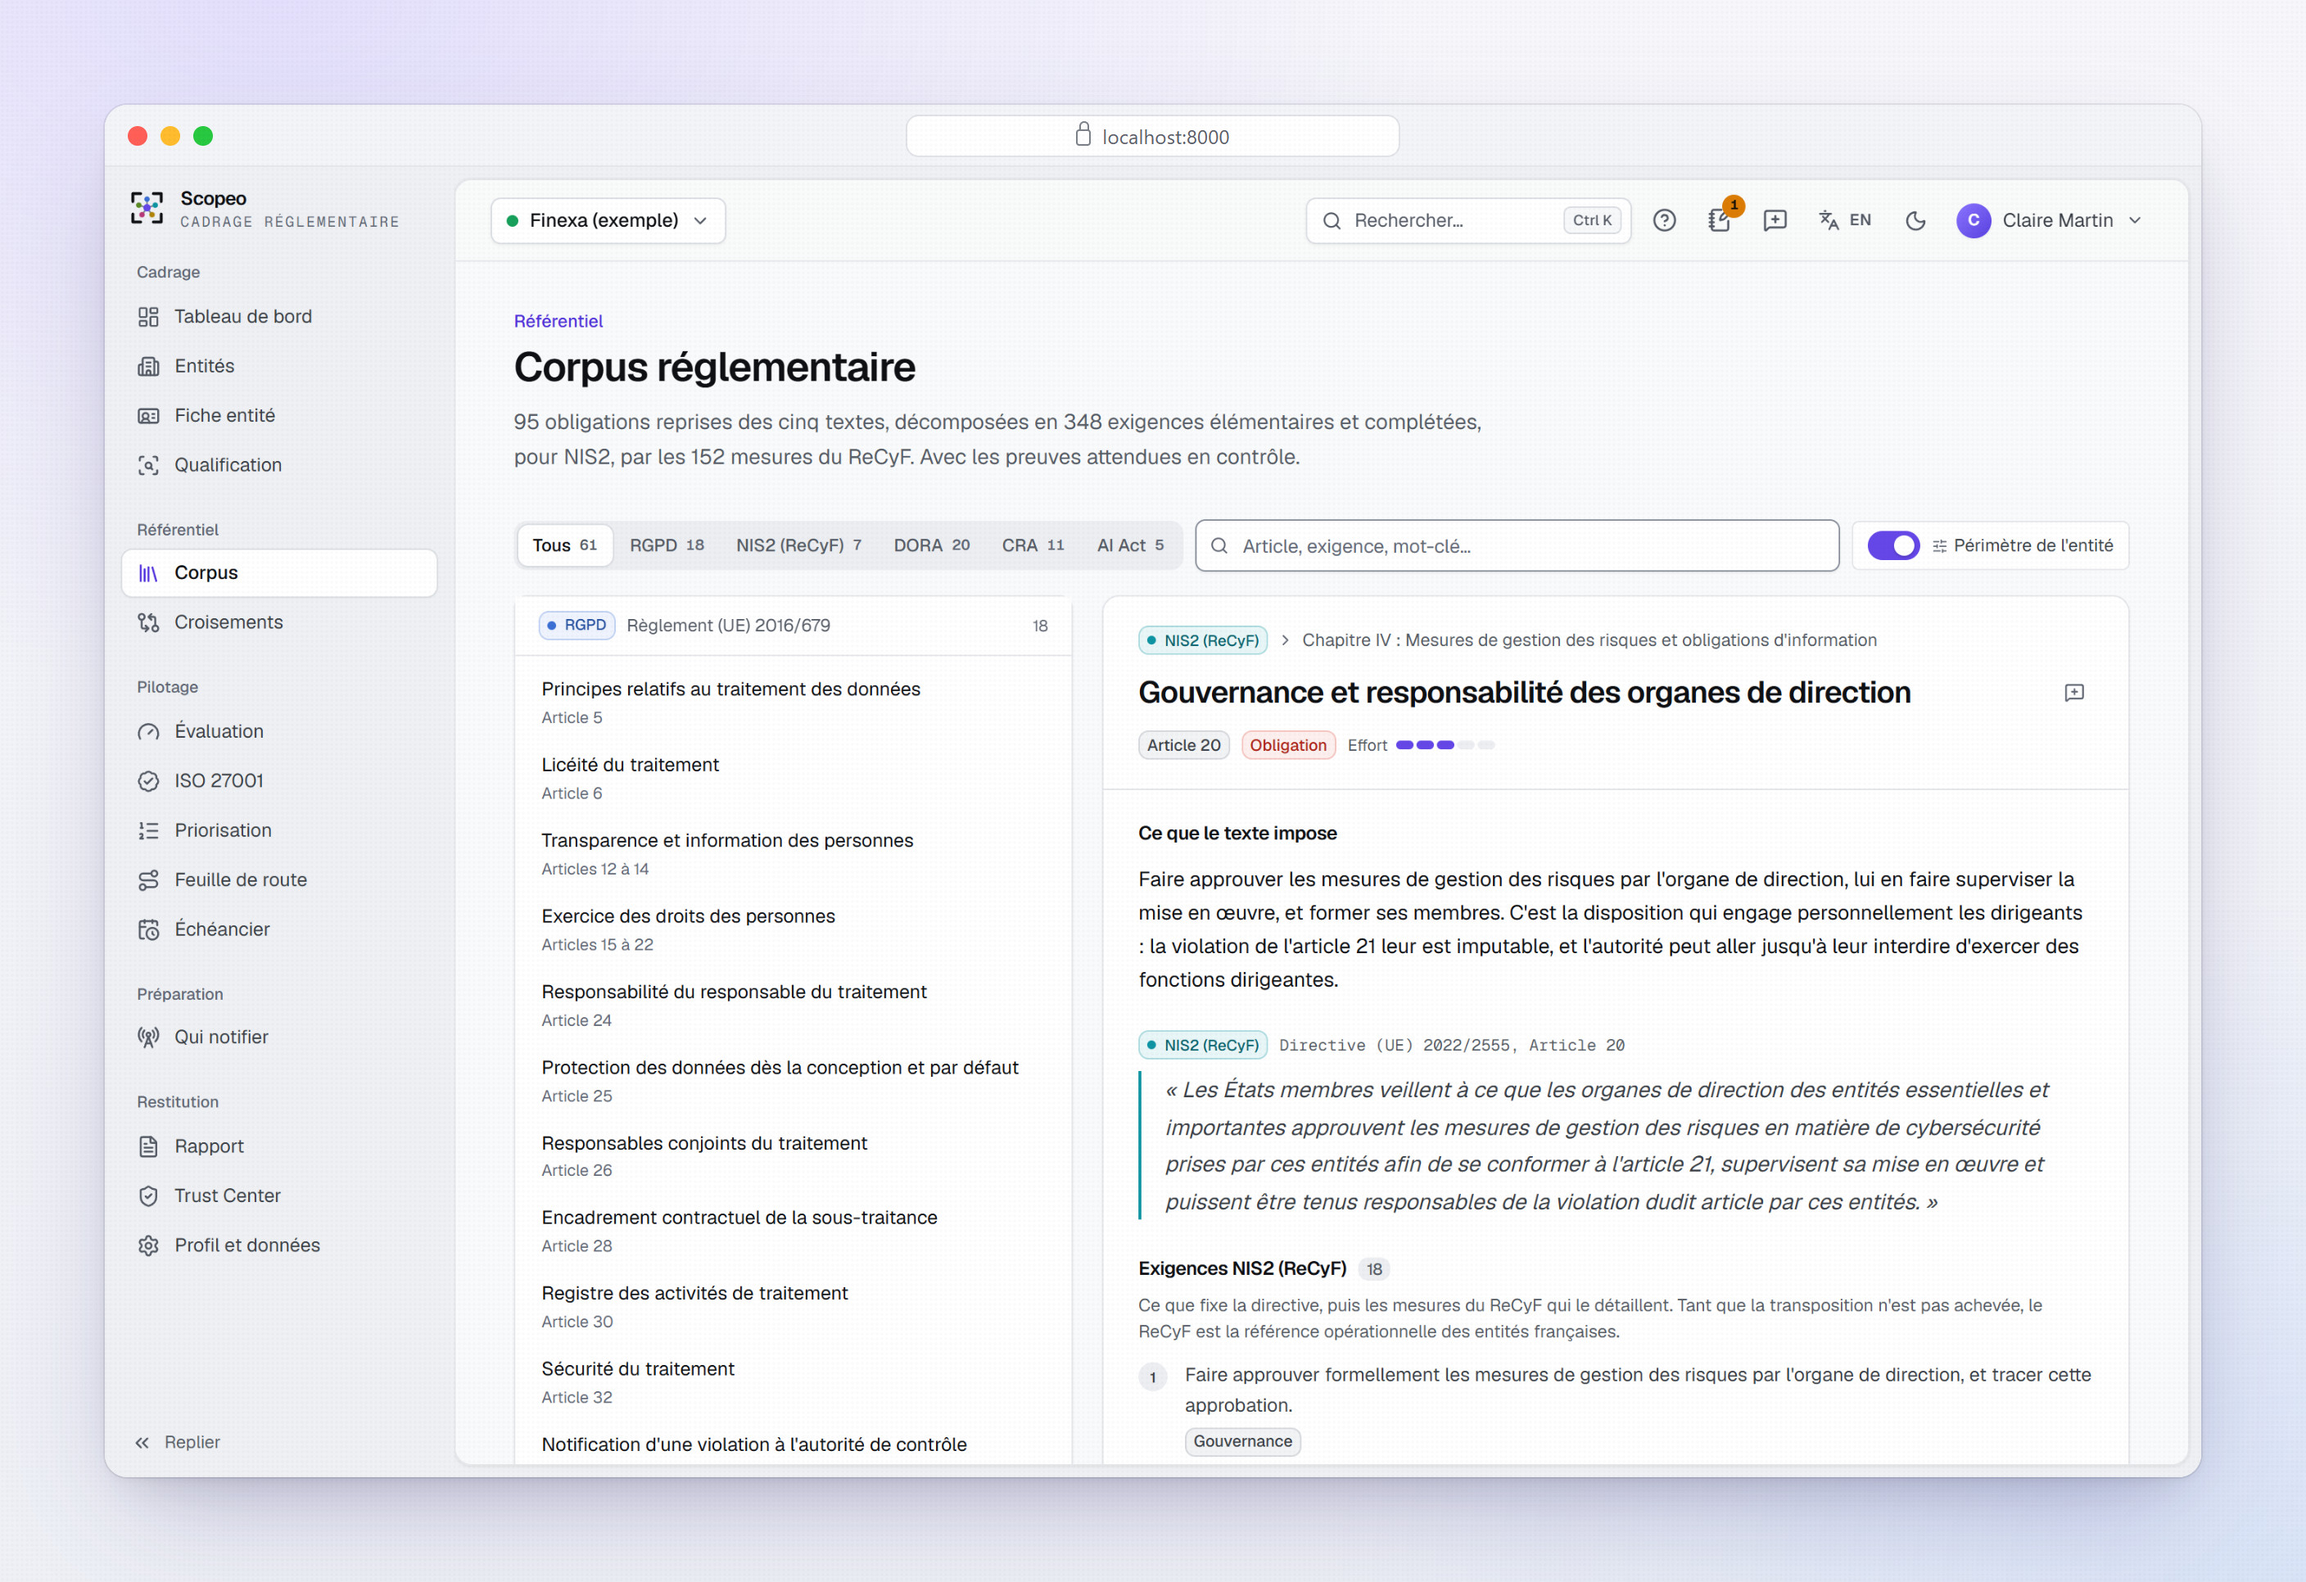
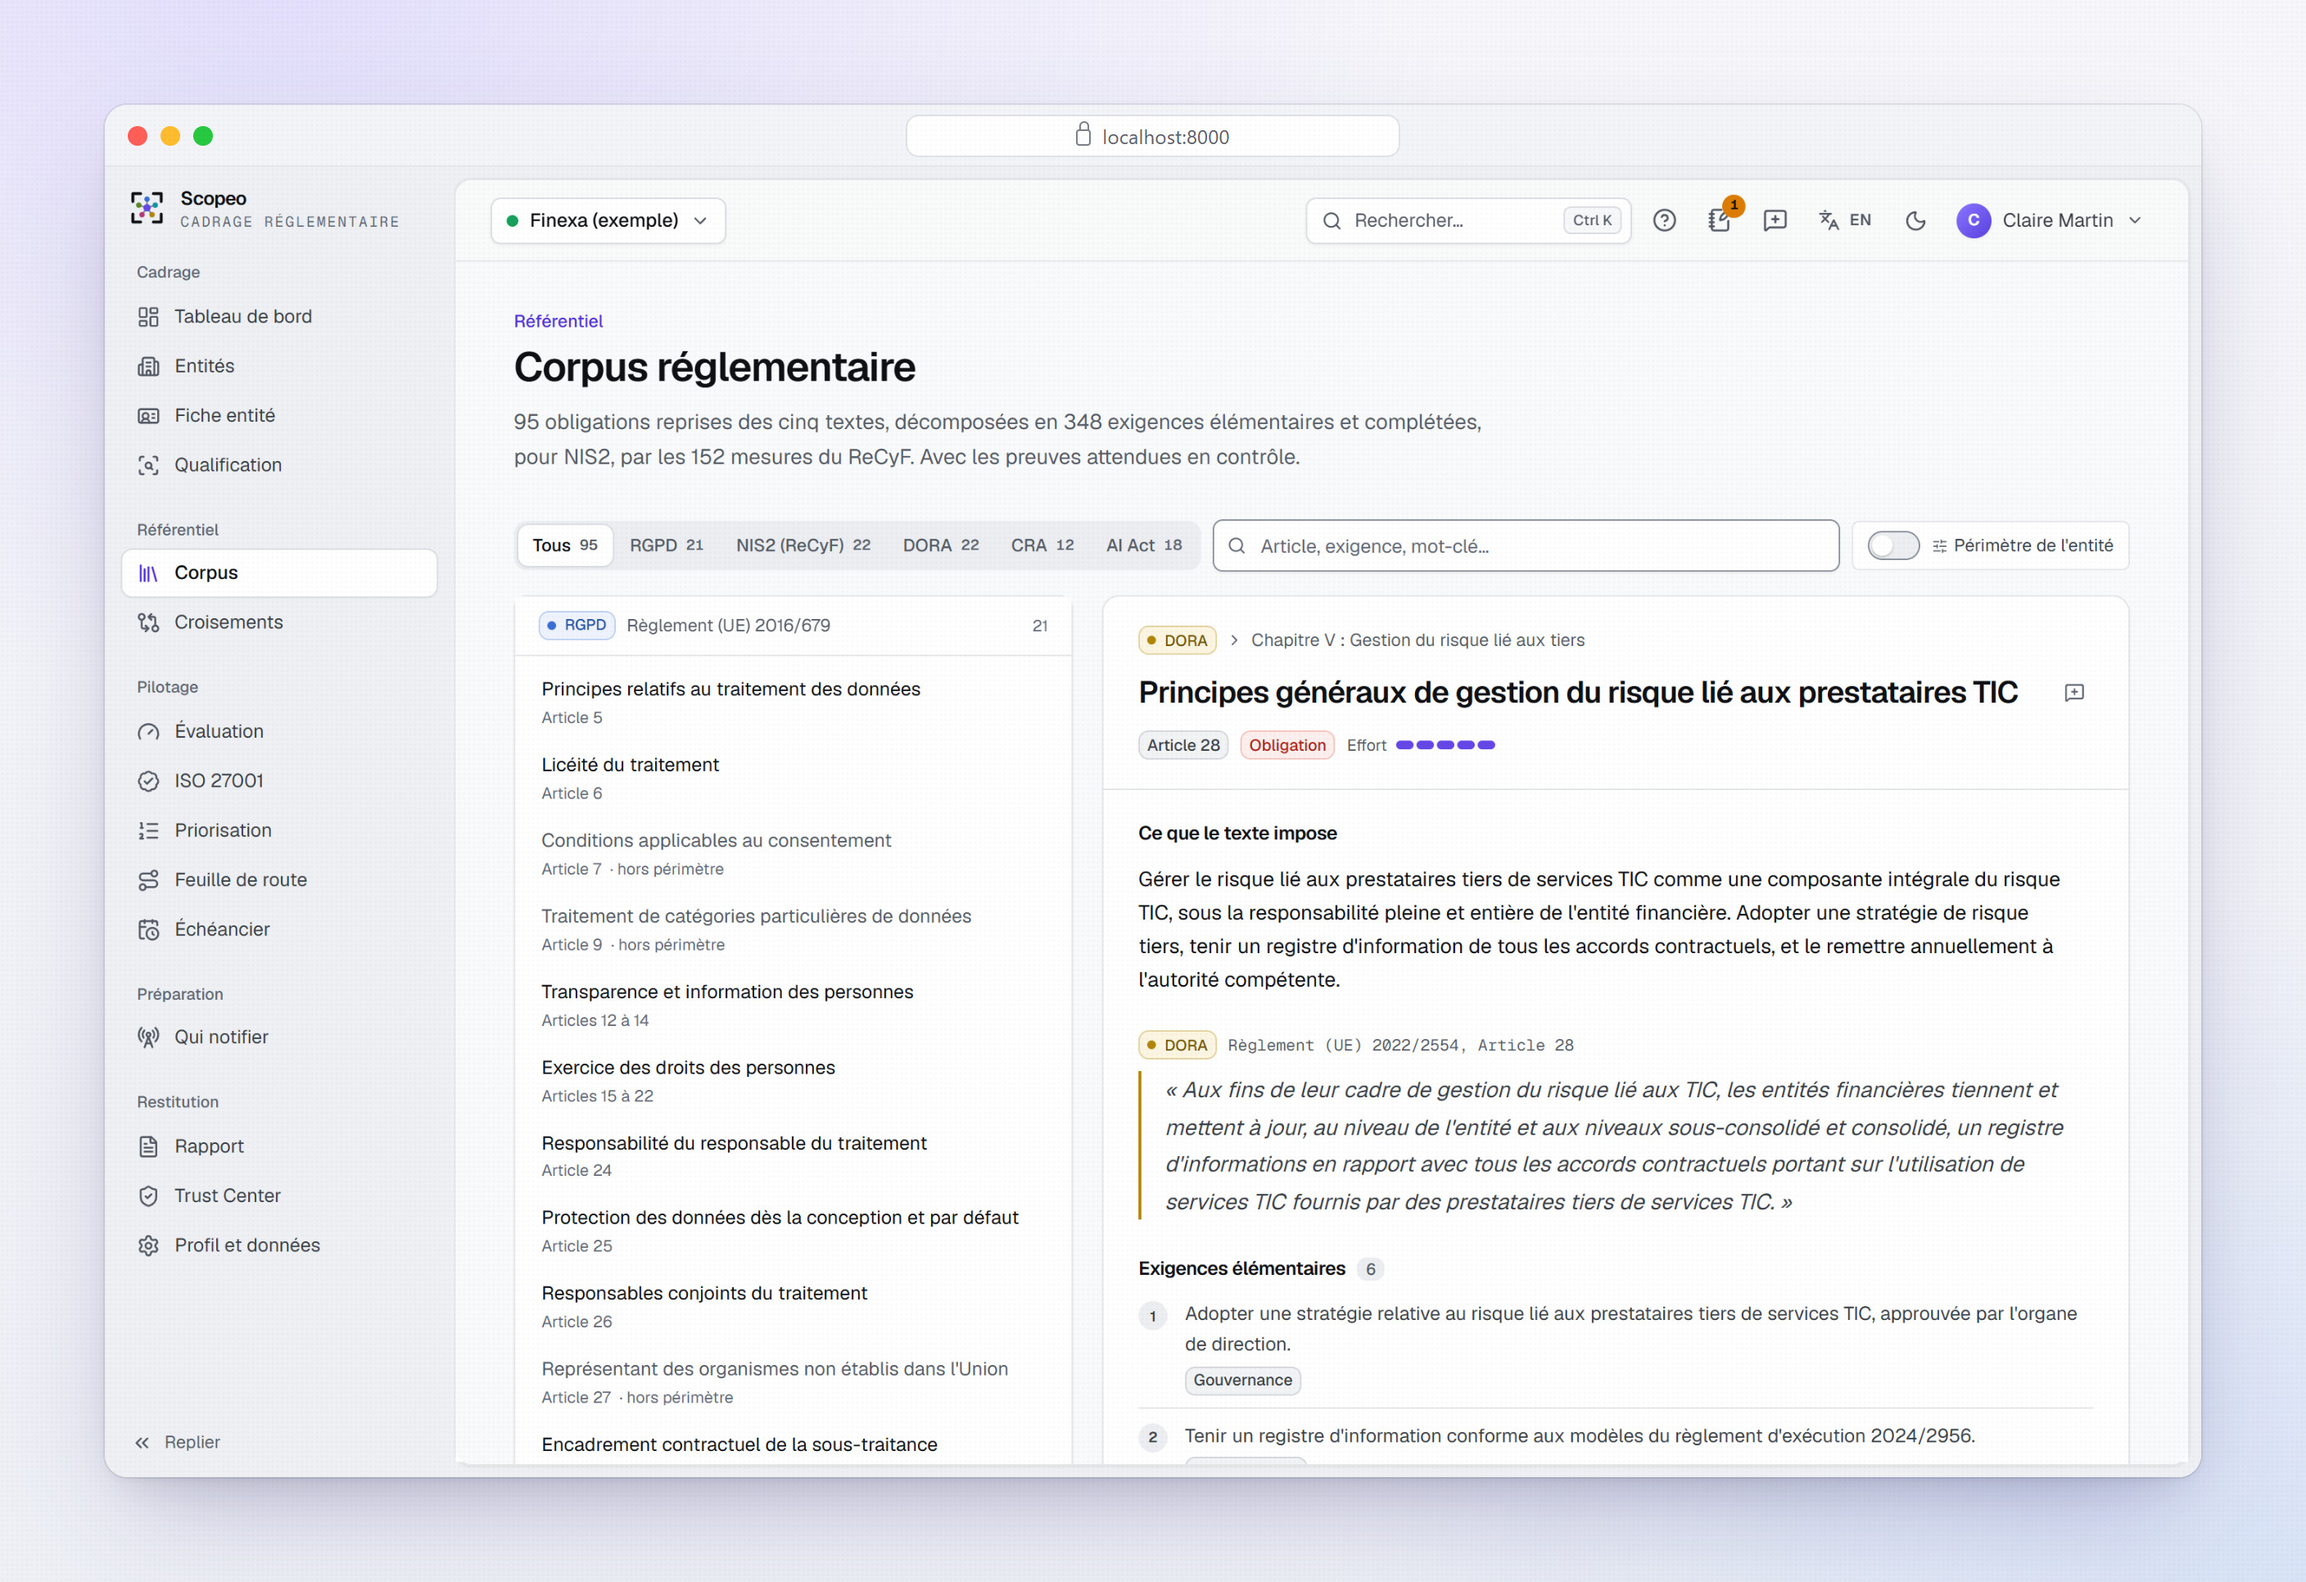
docs: corpus complet dans la visite, rôles GRC

diff --git a/src/features/admin/UsersPage.tsx b/src/features/admin/UsersPage.tsx
@@ -25,17 +25,8 @@ import { useCurrentUser } from '@/lib/queries'
 import { cn, formatDateShort } from '@/lib/utils'
 import type { AdminUser, UserRole } from '@/types/domain'
 import { tr } from '@/i18n'
+import { ROLE_SHORT, USER_ROLES as ROLES } from '@/components/auth/roles'
 
-const ROLES: { value: UserRole; label: string }[] = [
-  { value: 'consultant', label: tr('Consultant', 'Consultant') },
-  { value: 'dpo', label: tr('Délégué à la protection des données', 'Data protection officer') },
-  { value: 'rssi', label: tr('RSSI', 'CISO') },
-  { value: 'juriste', label: tr('Juriste, conformité', 'Legal, compliance') },
-  { value: 'dirigeant', label: tr('Direction', 'Executive') },
-  { value: 'auditeur', label: tr('Auditeur', 'Auditor') },
-  { value: 'autre', label: tr('Autre', 'Other') },
-]
-const ROLE_LABEL = Object.fromEntries(ROLES.map((r) => [r.value, r.label])) as Record<string, string>
 
 /** Mot de passe provisoire lisible, sans caractères ambigus. */
 function temporaryPassword(): string {
@@ -154,7 +145,7 @@ export default function UsersPage() {
                           {u.id === me?.id ? <span className="text-2xs text-ink-4">{tr('(vous)', '(you)')}</span> : null}
                         </span>
                         <span className="block truncate text-2xs text-ink-3">
-                          {[ROLE_LABEL[u.role] ?? u.role, u.organisation, u.email].filter(Boolean).join(' · ')}
+                          {[ROLE_SHORT[u.role] ?? u.role, u.organisation, u.email].filter(Boolean).join(' · ')}
                         </span>
                       </span>
                     </div>

diff --git a/src/components/layout/AppShell.tsx b/src/components/layout/AppShell.tsx
@@ -30,18 +30,10 @@ import { useSession } from '@/lib/store'
 import { useCurrentEntity, useCurrentUser, useEntities, useLogout, useSaveStatus, flushAll } from '@/lib/queries'
 import { useScoping } from '@/lib/hooks'
 import { tr } from '@/i18n'
+import { ROLE_SHORT } from '@/components/auth/roles'
 import { Tour } from '@/components/tour/Tour'
 import { FeedbackButton } from '@/components/feedback/FeedbackDialog'
 
-const ROLE_LABEL: Record<string, string> = {
-  consultant: tr('Consultant', 'Consultant'),
-  dpo: tr('DPO', 'DPO'),
-  rssi: tr('RSSI', 'CISO'),
-  juriste: tr('Juriste', 'Legal counsel'),
-  dirigeant: tr('Direction', 'Executive'),
-  auditeur: tr('Auditeur', 'Auditor'),
-  autre: tr('Utilisateur', 'User'),
-}
 
 /* ========================================================================== */
 
@@ -264,7 +256,7 @@ function UserMenu() {
           <div className="px-2 py-2">
             <div className="truncate text-sm font-medium text-ink">{displayName}</div>
             <div className="text-2xs text-ink-3">
-              {user?.is_guest ? tr('Mode invité', 'Guest mode') : ROLE_LABEL[user?.role ?? 'autre']}
+              {user?.is_guest ? tr('Mode invité', 'Guest mode') : ROLE_SHORT[user?.role ?? 'autre']}
               {user?.is_admin ? ` · ${tr('administrateur', 'administrator')}` : ''}
               {user?.organisation ? ` · ${user.organisation}` : ''}
             </div>

diff --git a/src/components/auth/roles.ts b/src/components/auth/roles.ts
@@ -1,0 +1,28 @@
+import type { UserRole } from '@/types/domain'
+import { tr } from '@/i18n'
+
+/** Fonctions proposées pour un profil : celles des personnes qui mènent ou éclairent un cadrage. */
+export const USER_ROLES: { value: UserRole; label: string }[] = [
+  { value: 'consultant', label: tr('Consultant', 'Consultant') },
+  { value: 'rssi', label: tr('RSSI', 'CISO') },
+  { value: 'conformite', label: tr('Responsable GRC, conformité', 'GRC, compliance manager') },
+  { value: 'risques', label: tr('Gestionnaire des risques', 'Risk manager') },
+  { value: 'dpo', label: tr('Délégué à la protection des données', 'Data protection officer') },
+  { value: 'juriste', label: tr('Juriste', 'Legal counsel') },
+  { value: 'dirigeant', label: tr('Direction', 'Executive') },
+  { value: 'auditeur', label: tr('Auditeur', 'Auditor') },
+  { value: 'autre', label: tr('Autre', 'Other') },
+]
+
+/** Libellé court, pour le menu du profil et la liste des comptes. */
+export const ROLE_SHORT: Record<UserRole, string> = {
+  consultant: tr('Consultant', 'Consultant'),
+  rssi: tr('RSSI', 'CISO'),
+  conformite: tr('GRC, conformité', 'GRC, compliance'),
+  risques: tr('Risques', 'Risk'),
+  dpo: 'DPO',
+  juriste: tr('Juriste', 'Legal counsel'),
+  dirigeant: tr('Direction', 'Executive'),
+  auditeur: tr('Auditeur', 'Auditor'),
+  autre: tr('Utilisateur', 'User'),
+}

diff --git a/src/features/settings/SettingsPage.tsx b/src/features/settings/SettingsPage.tsx
@@ -12,16 +12,8 @@ import { MfaCard } from './MfaCard'
 import { ApiTokensCard } from './ApiTokensCard'
 import { LANG, setLang, tr, type Lang } from '@/i18n'
 import type { EntityRecord, UserRole } from '@/types/domain'
+import { USER_ROLES as ROLES } from '@/components/auth/roles'
 
-const ROLES: { value: UserRole; label: string }[] = [
-  { value: 'consultant', label: tr('Consultant, plusieurs clients', 'Consultant, several clients') },
-  { value: 'dpo', label: tr('Délégué à la protection des données', 'Data protection officer') },
-  { value: 'rssi', label: tr('RSSI', 'CISO') },
-  { value: 'juriste', label: tr('Juriste, conformité', 'Legal, compliance') },
-  { value: 'dirigeant', label: tr('Direction', 'Executive') },
-  { value: 'auditeur', label: tr('Auditeur', 'Auditor') },
-  { value: 'autre', label: tr('Autre', 'Other') },
-]
 
 /** Format d'échange d'une entité : ce qu'il faut pour la recréer ailleurs, rien de plus. */
 interface EntityExport {

diff --git a/src/features/landing/LandingPage.tsx b/src/features/landing/LandingPage.tsx
@@ -15,16 +15,8 @@ import { REGULATION_ORDER } from '@/data/regulations'
 import { TIMELINE } from '@/data/timeline'
 import { LanguageToggle, ThemeToggle } from '@/components/layout/ThemeToggle'
 import { tr } from '@/i18n'
+import { USER_ROLES as ROLES } from '@/components/auth/roles'
 
-const ROLES: { value: UserRole; label: string }[] = [
-  { value: 'consultant', label: tr('Consultant, plusieurs clients', 'Consultant, several clients') },
-  { value: 'dpo', label: tr('Délégué à la protection des données', 'Data protection officer') },
-  { value: 'rssi', label: tr('RSSI', 'CISO') },
-  { value: 'juriste', label: tr('Juriste, conformité', 'Legal, compliance') },
-  { value: 'dirigeant', label: tr('Direction', 'Executive') },
-  { value: 'auditeur', label: tr('Auditeur', 'Auditor') },
-  { value: 'autre', label: tr('Autre', 'Other') },
-]
 
 
 /** Veille : ce qui vient d'entrer en vigueur et ce qui arrive, daté par rapport à aujourd'hui. */

diff --git a/src/types/domain.ts b/src/types/domain.ts
@@ -424,7 +424,7 @@ export interface TimelineEvent {
 // Persistance : miroir des objets du serveur
 // ---------------------------------------------------------------------------
 
-export type UserRole = 'consultant' | 'dpo' | 'rssi' | 'juriste' | 'dirigeant' | 'auditeur' | 'autre'
+export type UserRole = 'consultant' | 'rssi' | 'conformite' | 'risques' | 'dpo' | 'juriste' | 'dirigeant' | 'auditeur' | 'autre'
 
 export interface UserProfile {
   id: string

diff --git a/server/app/schemas.py b/server/app/schemas.py
@@ -21,7 +21,7 @@ def _as_utc(value: datetime) -> str:
 
 UTCDateTime = Annotated[datetime, PlainSerializer(_as_utc, return_type=str)]
 
-Role = Literal["consultant", "dpo", "rssi", "juriste", "dirigeant", "auditeur", "autre"]
+Role = Literal["consultant", "rssi", "conformite", "risques", "dpo", "juriste", "dirigeant", "auditeur", "autre"]
 
 
 class RegisterPayload(BaseModel):

diff --git a/README.md b/README.md
@@ -19,7 +19,7 @@ Open source regulatory scoping and gap assessment platform for the **GDPR**, **N
 
 <br>
 
-<img src="docs/assets/tour-en.webp" alt="Walkthrough: sign-in, dashboard, scoping, crosswalk, shared actions, assessment, ISO 27001, prioritisation, incident notification, reports, administration, dark theme" width="100%">
+<img src="docs/assets/tour-en.webp" alt="Walkthrough: sign-in, dashboard, scoping, crosswalk, shared actions, regulatory corpus, assessment, ISO 27001, prioritisation, incident notification, reports, administration, dark theme" width="100%">
 
 </div>
 
@@ -61,8 +61,8 @@ The first step determines which texts apply (GDPR, NIS2 (ReCyF), DORA, CRA, AI A
 
 | Profile | What the platform brings |
 |---|---|
-| Consultants and advisory firms | Scope a client in a few interviews, with reasoning that holds up article by article, and deliver board-ready reports. |
-| CISO, DPO and compliance teams | See which texts apply, where one action covers several of them, and where to start. |
+| Consultants | Scope a client in a few interviews, with reasoning that holds up article by article, and deliver board-ready reports. |
+| GRC teams: CISO, risk, compliance, DPO | See which texts apply, where one action covers several of them, and where to start. |
 | Management | A two-page summary: exposure, priorities and decisions to take. |
 | Legal counsel | The legal basis of every verdict, official quotations and caveats. |
 
@@ -110,8 +110,8 @@ An optional question at the end of scoping records the entity's ISO 27001 status
 <tr>
 <td width="50%" valign="top">
 
-### NIS2 detailed by the ReCyF
-Under the NIS2 requirements, the **152 measures of ANSSI's ReCyF** (v2.5, March 2026 working version), filtered by entity category. A valid ISO 27001 certificate over the whole scope is recognised for objectives 2 and 16, as the ReCyF provides.
+### The full regulatory corpus
+**95 obligations** from the five texts, broken down into **348 elementary requirements**, each with its official quotation and the evidence expected in an audit. The view can be filtered to the entity's scope. NIS2 is detailed by the **152 measures of ANSSI's ReCyF** (v2.5, March 2026 working version), filtered by entity category.
 
 </td>
 <td width="50%"><img src="docs/assets/en/corpus.jpg" alt="Regulatory corpus"></td>
@@ -321,7 +321,7 @@ Plateforme open source de cadrage et de diagnostic réglementaire pour le **RGPD
 
 <br>
 
-<img src="docs/assets/tour-fr.webp" alt="Parcours : connexion, tableau de bord, qualification, croisements, mutualisation, évaluation, ISO 27001, priorisation, signalement, rapports, administration, thème sombre" width="100%">
+<img src="docs/assets/tour-fr.webp" alt="Parcours : connexion, tableau de bord, qualification, croisements, mutualisation, corpus réglementaire, évaluation, ISO 27001, priorisation, signalement, rapports, administration, thème sombre" width="100%">
 
 </div>
 
@@ -363,8 +363,8 @@ La première étape établit les textes applicables (RGPD, NIS2 (ReCyF), DORA, C
 
 | Profil | Ce que la plateforme apporte |
 |---|---|
-| Consultants et cabinets de conseil | Cadrer un client en quelques entretiens, avec un raisonnement qui tient article par article, et remettre des livrables prêts pour une direction. |
-| RSSI, DPO et équipes conformité | Savoir quels textes s'appliquent, où une action en couvre plusieurs, et par quoi commencer. |
+| Consultants | Cadrer un client en quelques entretiens, avec un raisonnement qui tient article par article, et remettre des livrables prêts pour une direction. |
+| Équipes GRC : RSSI, risques, conformité, DPO | Savoir quels textes s'appliquent, où une action en couvre plusieurs, et par quoi commencer. |
 | Direction | Une note de deux pages : exposition, priorités et décisions à prendre. |
 | Juristes | Le fondement de chaque verdict, les citations officielles et les réserves. |
 
@@ -412,8 +412,8 @@ Une question facultative, en fin de qualification, recueille la situation de l'e
 <tr>
 <td width="50%" valign="top">
 
-### NIS2 détaillé par le ReCyF
-Sous les exigences NIS2, les **152 mesures du ReCyF** de l'ANSSI (v2.5, version de travail de mars 2026), filtrées selon la catégorie de l'entité. Un certificat ISO 27001 valide sur tout le périmètre est reconnu pour les objectifs 2 et 16, comme le prévoit le ReCyF.
+### Tout le corpus réglementaire
+**95 obligations** issues des cinq textes, décomposées en **348 exigences élémentaires**, chacune avec sa citation officielle et les preuves attendues en contrôle. La vue se filtre sur le périmètre de l'entité. NIS2 est détaillée par les **152 mesures du ReCyF** de l'ANSSI (v2.5, version de travail de mars 2026), filtrées selon la catégorie de l'entité.
 
 </td>
 <td width="50%"><img src="docs/assets/fr/corpus.jpg" alt="Corpus réglementaire"></td>
